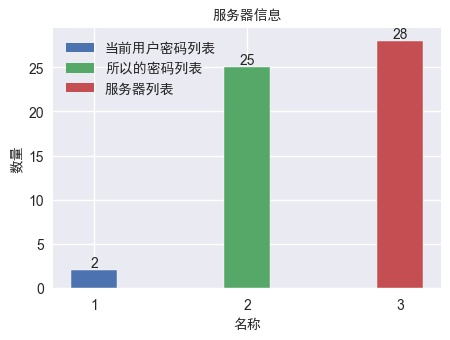
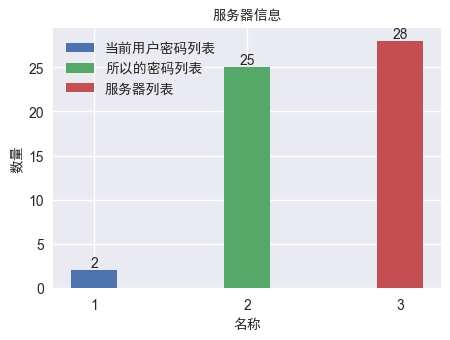
优化

Changed region(s): [[0.1556, 0.7941, 0.1867, 0.8529], [0.4978, 0.8235, 0.5289, 0.8529], [0.4978, 0.1765, 0.5289, 0.2059]]

diff --git a/linux/views.py b/linux/views.py
@@ -23,32 +23,26 @@ def index(request):
 	nwl = NewLinux.objects.all().count()
 	plt.switch_backend('agg')
 	plt.figure(figsize=(5, 3.37))
+	plt.style.use('seaborn')
 	myfont = FontProperties(fname='./static/Font/simhei.ttf')
-	print(myfont)
 	width = 0.3
-	# font1 = plt.text(None, None, u'当前用户密码列表', fontproperties=myfont)
-	# print(font1)
-	plt.rcParams['font.family'] =  myfont._family
 	rects1 = plt.bar('1', pwd, width=width)
 	rects2 = plt.bar('2', passwd, width=width)
 	rects3 = plt.bar('3', nwl, width=width)
-	plt.legend((u"当前用户密码列表", u"所以的密码列表", u"服务器列表"), loc='best', prop=myfont)
-	plt.style.use('seaborn')
-	# plt.rcParams['font.sans-serif'] = myfont._family # 显示中文格式
-	# plt.rcParams['axes.unicode_minus'] = False  # 这两行需要手动设置
 
 	def add_labels(rects):
 		for rect in rects:
 			height = rect.get_height()
 			plt.text(rect.get_x() + rect.get_width() / 2, height, height, ha='center', va='bottom')
-			rect.set_edgecolor('white')
+			# rect.set_edgecolor('white')
 	add_labels(rects1)
 	add_labels(rects2)
 	add_labels(rects3)
 	plt.title(u'服务器信息', fontproperties=myfont)
 	plt.xlabel(u'名称', fontproperties=myfont)
 	plt.ylabel(u'数量', fontproperties=myfont)
-	plt.savefig('./static/images/rectangle.jpg', bbox_inches='tight', edgecolor='#c4e3f3')
+	plt.legend((u"当前用户密码列表", u"所以的密码列表", u"服务器列表"), loc='best', prop=myfont)
+	plt.savefig('./static/images/rectangle.jpg', bbox_inches='tight')
 	plt.close()
 	return render(request, "linux/index.html")
 
